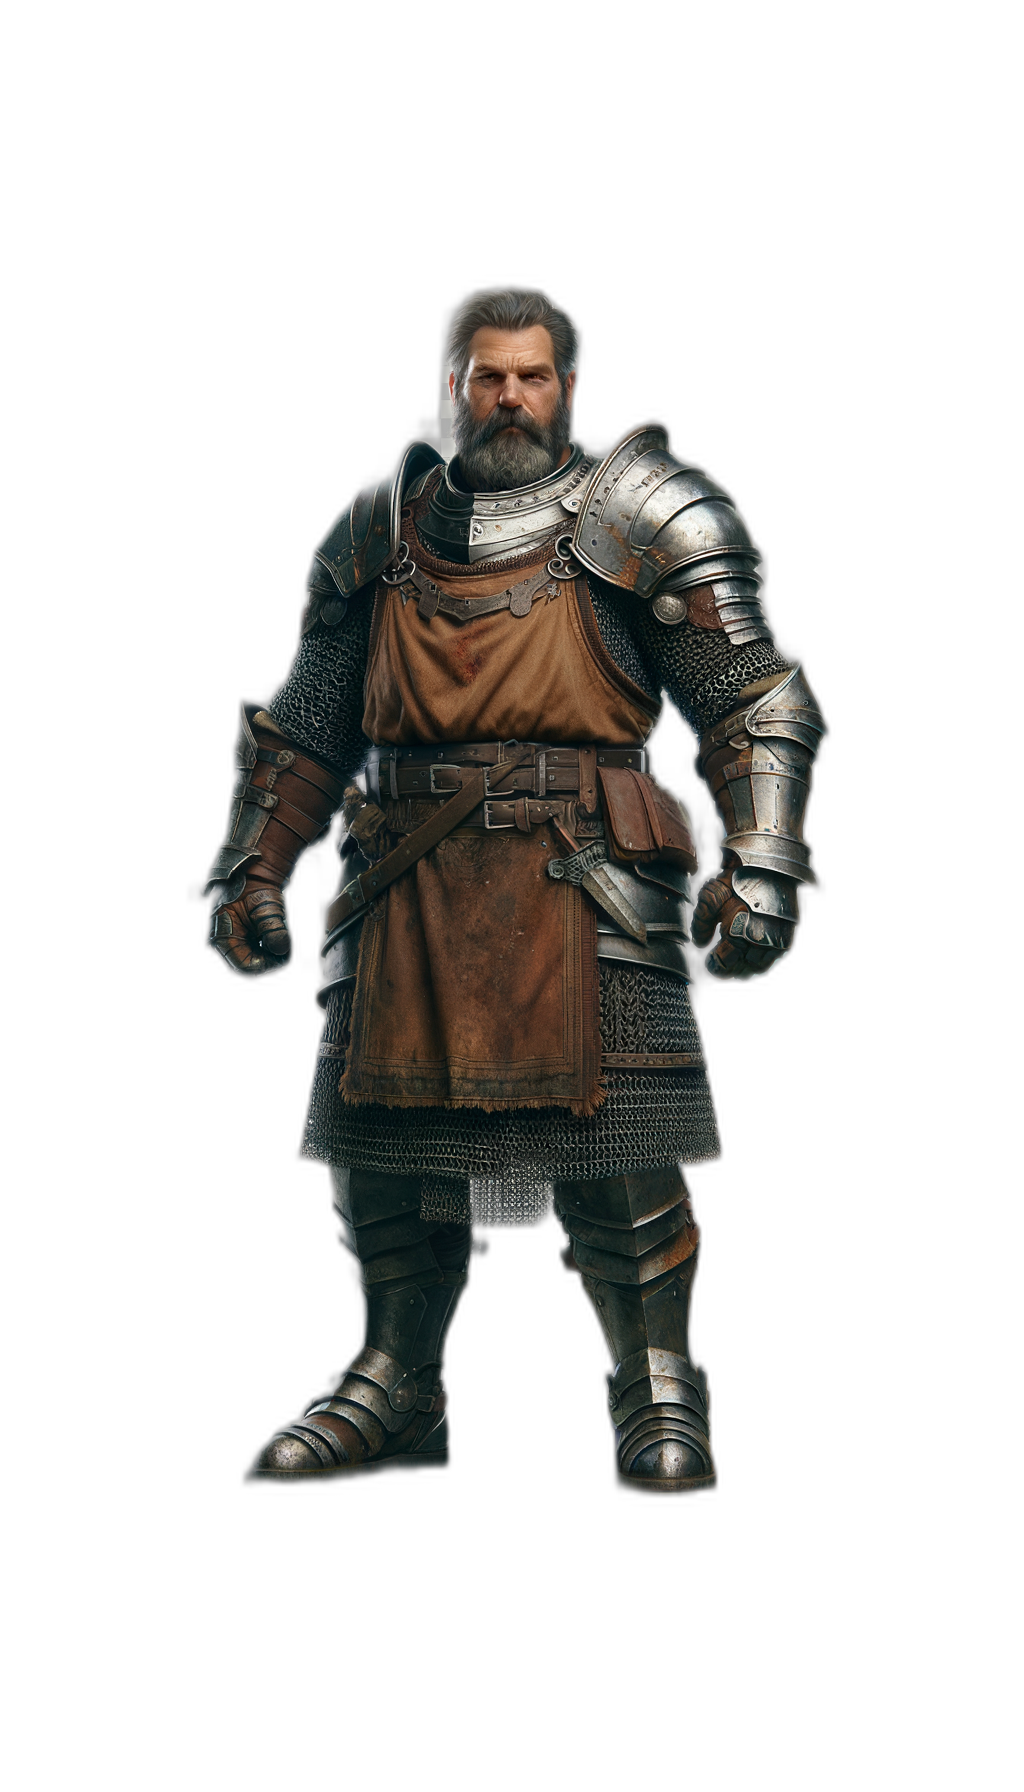
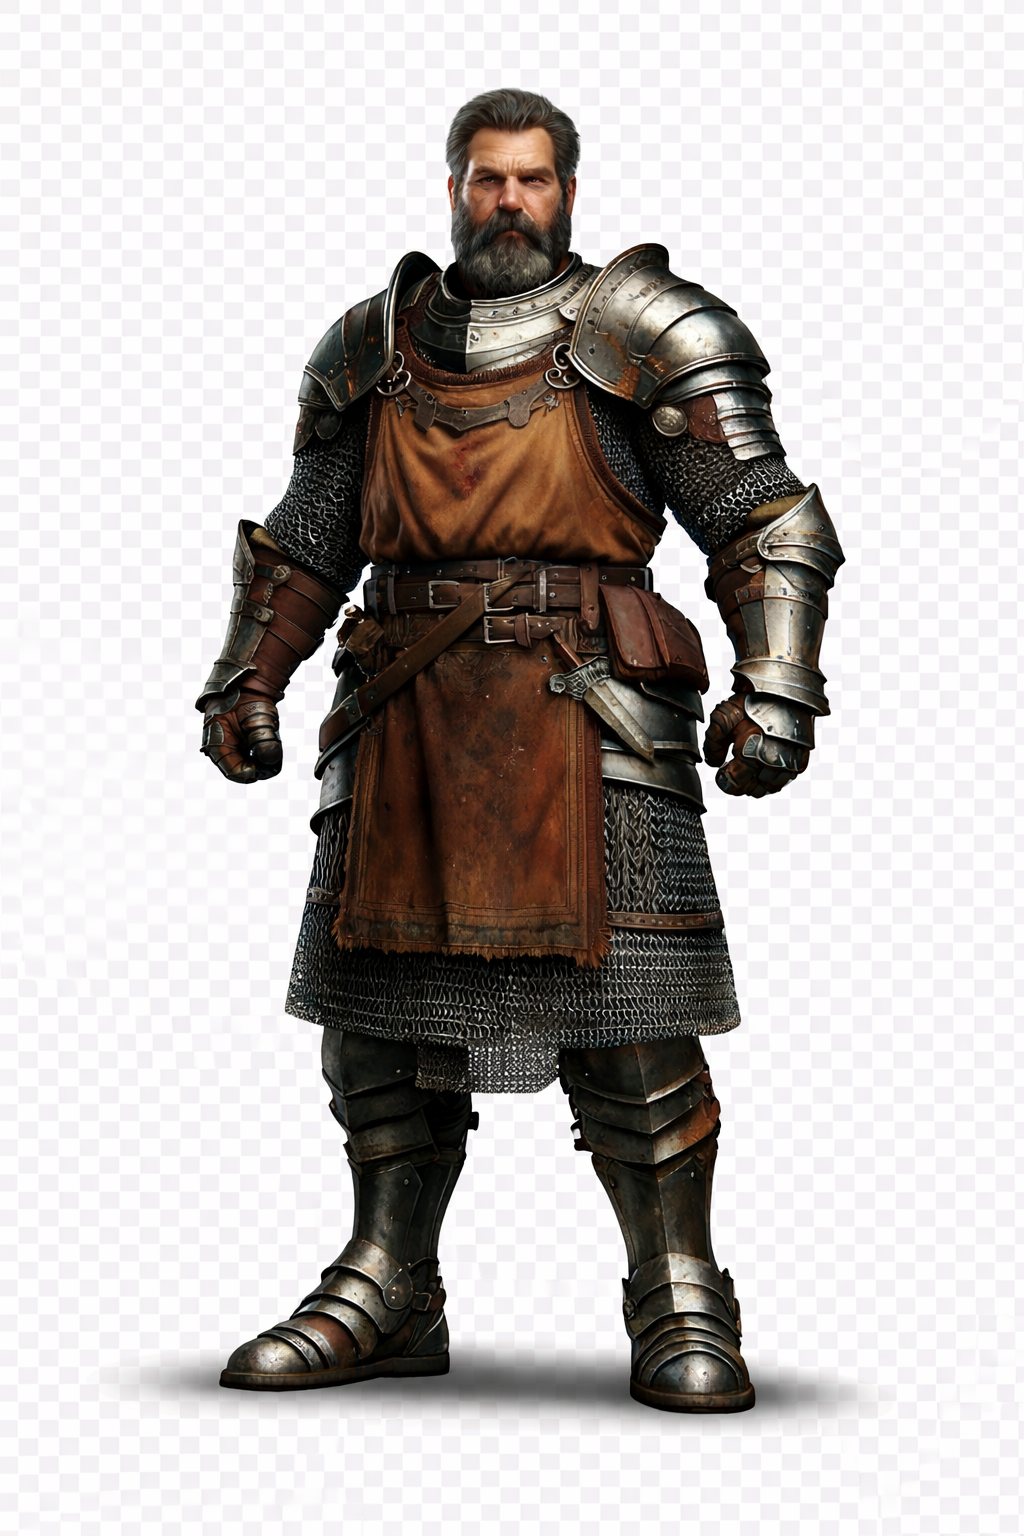
Per-shop bust crop for Harlan/Mira, pass bustCrop to NPC menu

Changed region(s): [[0.125, 0.0312, 0.8438, 0.9375]]

diff --git a/js/shops.js b/js/shops.js
@@ -18,6 +18,7 @@ var Shops = (function () {
       name: "Harlan's Armory",
       npc: "harlan",
       background: "assets/backgrounds/main-town-armor-shop.png",
+      bustCrop: true,
       stock: [
         "leather-helm", "leather-chest", "leather-leggings", "leather-gloves", "leather-bracers",
         "iron-helm", "iron-chestplate", "iron-leggings", "iron-gloves", "iron-bracers",
@@ -29,6 +30,7 @@ var Shops = (function () {
       name: "Mira's Potion Shop",
       npc: "mira",
       background: "assets/backgrounds/main-town-potions-shop.png",
+      bustCrop: true,
       stock: [
         "lesser-health-potion", "health-potion", "greater-health-potion", "mana-potion",
         "wildflowers", "herbal-tea", "sweet-roll", "moonstone", "old-book"
@@ -70,10 +72,11 @@ var Shops = (function () {
 
     if (shopTitle) shopTitle.textContent = shop.name;
 
-    // Full-body NPC portrait in the scene (bust crop — behind counter)
+    // Full-body NPC portrait in the scene (bust crop if shop requires it)
     if (npcArea) {
       if (npc && npc.portrait) {
-        var img = '<img class="shop-npc-fullbody npc-bust-crop' + (interactivePortrait ? ' is-interactive' : '') + '" src="' + npc.portrait + '" alt="' + npc.name + '" onerror="this.style.display=\'none\'"';
+        var cropClass = shop.bustCrop ? ' npc-bust-crop' : '';
+        var img = '<img class="shop-npc-fullbody' + cropClass + (interactivePortrait ? ' is-interactive' : '') + '" src="' + npc.portrait + '" alt="' + npc.name + '" onerror="this.style.display=\'none\'"';
         if (interactivePortrait) {
           img += ' data-action="shop-scene-interact" data-shop="' + shopId + '" title="Talk to ' + npc.name + '"';
         }
@@ -82,7 +85,11 @@ var Shops = (function () {
       } else {
         npcArea.innerHTML = '';
       }
-      npcArea.classList.add('bust-crop-area');
+      if (shop.bustCrop) {
+        npcArea.classList.add('bust-crop-area');
+      } else {
+        npcArea.classList.remove('bust-crop-area');
+      }
     }
 
     if (backBtn) {

diff --git a/js/world.js b/js/world.js
@@ -60,7 +60,8 @@ var World = (function () {
     showNPCMenu(shop.npc, {
       shopId: shopId,
       background: shop.background || '',
-      returnToScene: "shop"
+      returnToScene: "shop",
+      bustCrop: shop.bustCrop || false
     });
   }
 
